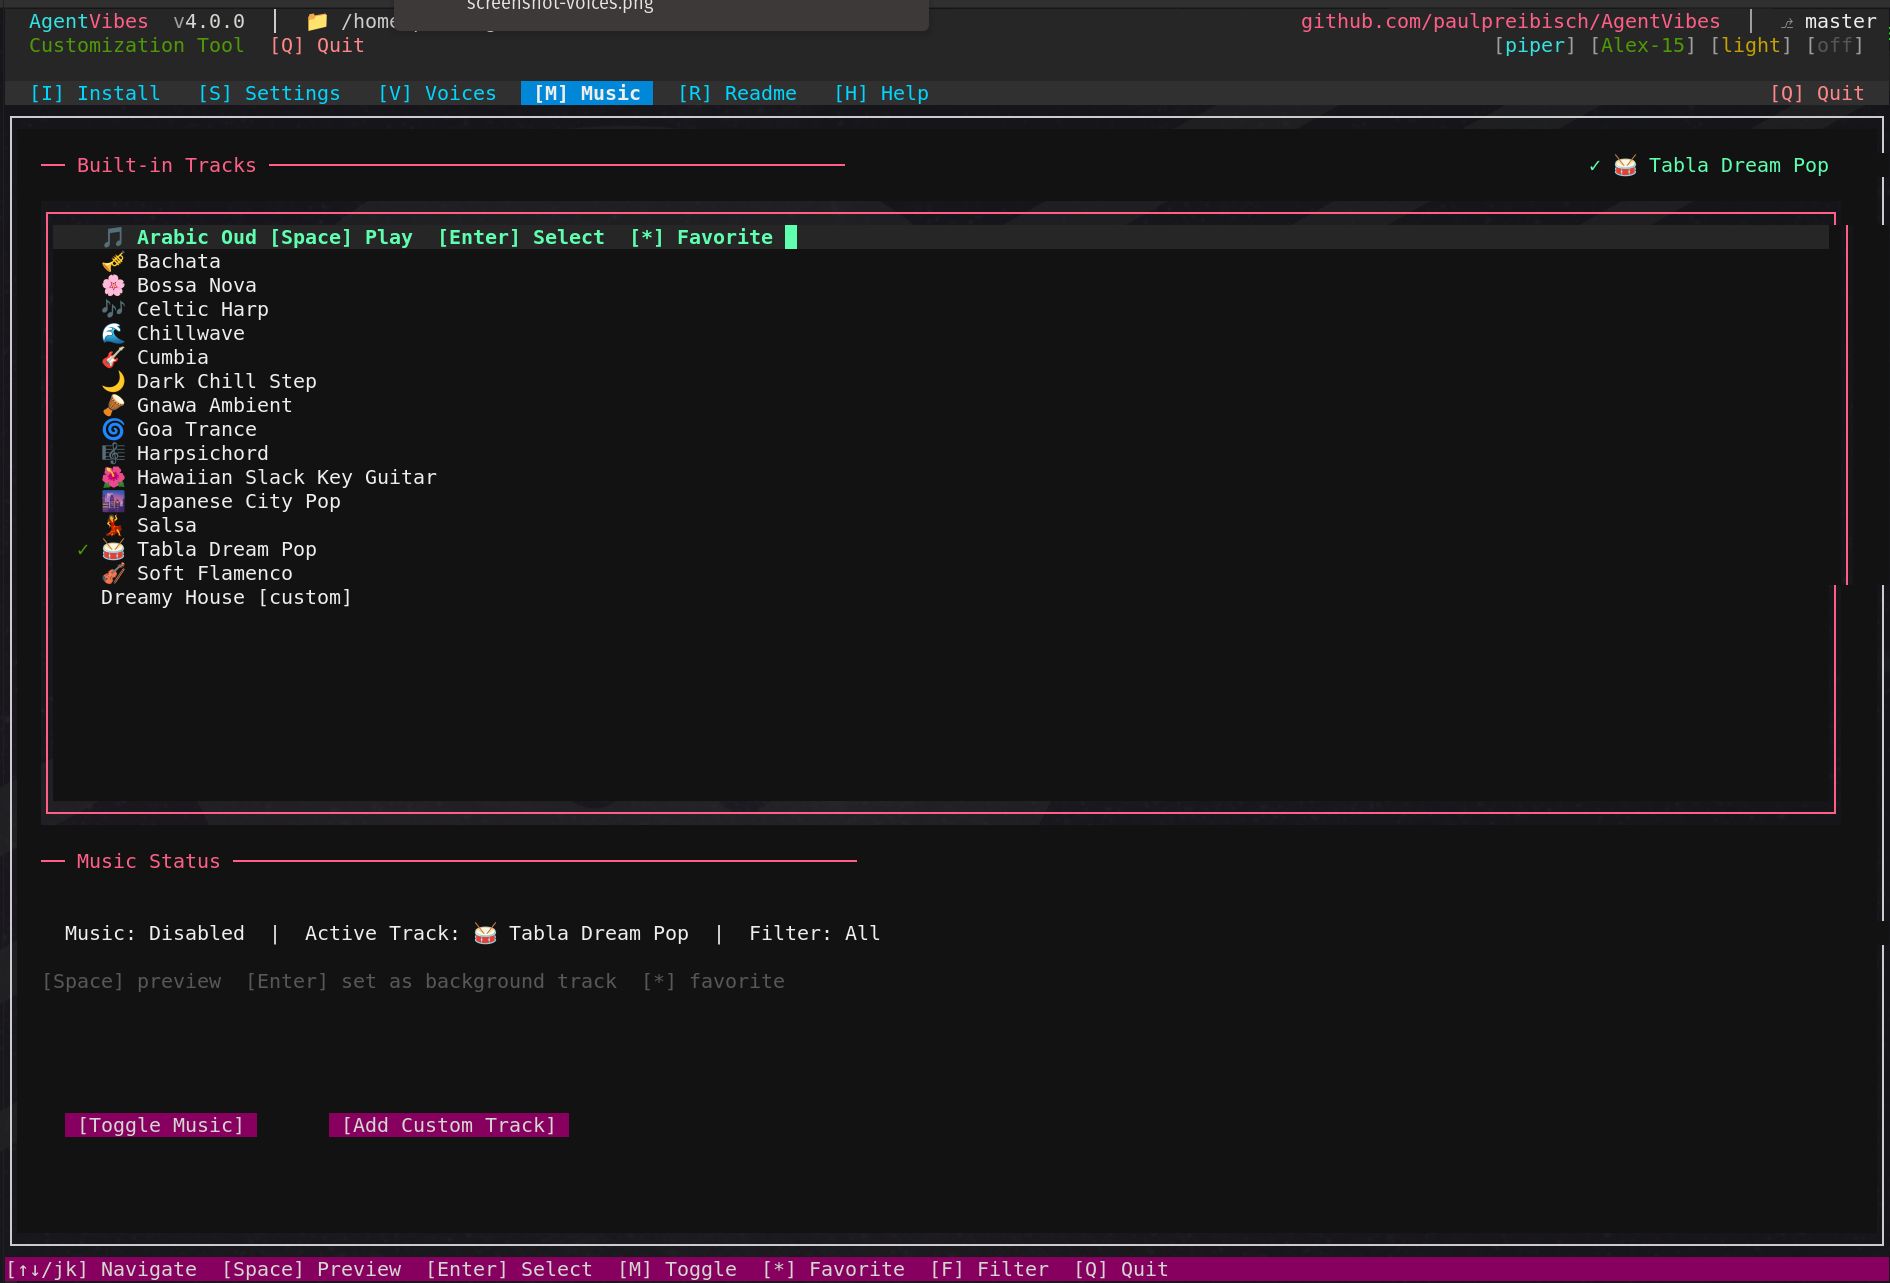
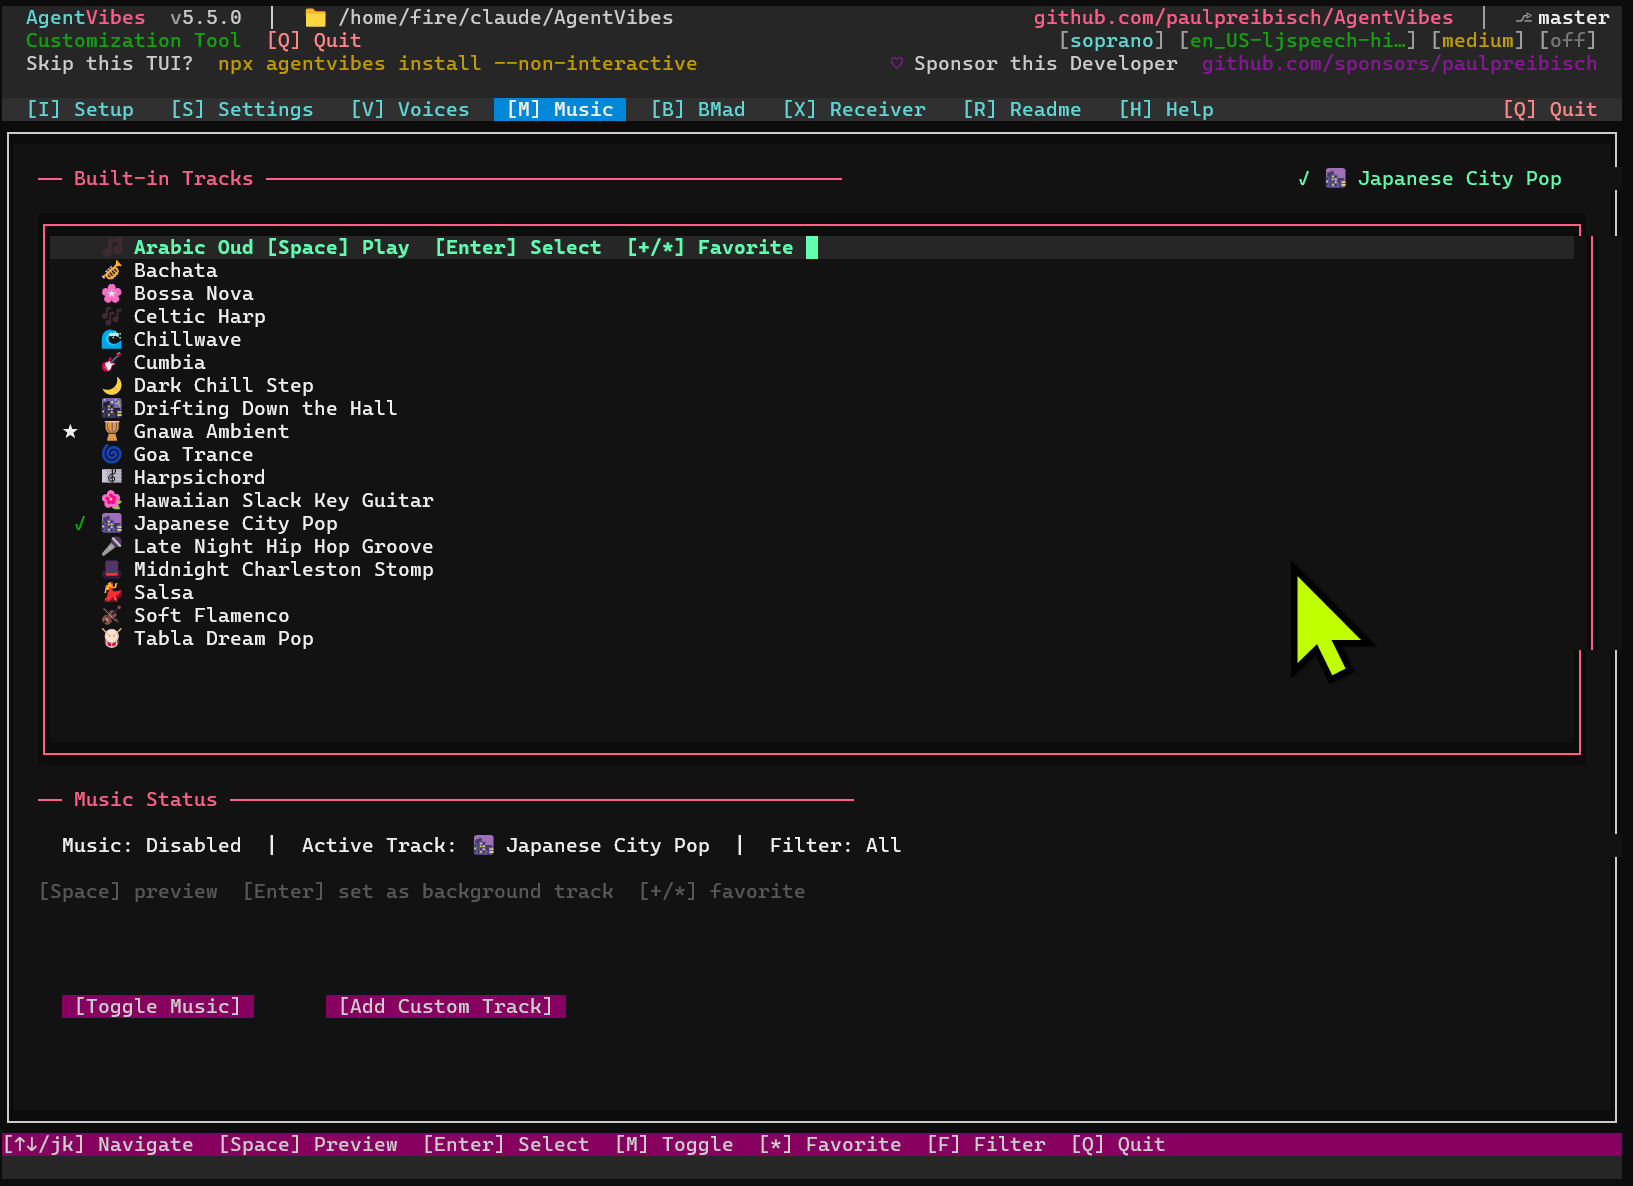
docs: add TUI screenshots, retire voice-browser command, bump v5.6.0
- Add screenshot-bmad, screenshot-configure, screenshot-music,
  screenshot-setup, screenshot-voice-browser to README
- Remove all npx agentvibes-voice-browser references (tool retired)
- Rename Voice Browser section to reflect TUI-native access
- Convert all image paths to absolute GitHub raw URLs (npm-compatible)
- Fix .gitignore to track named screenshots, ignore numbered ones
- Remove stale voice-browser-screenshot.png

diff --git a/README.md b/README.md
@@ -11,7 +11,7 @@
 [![Publish](https://github.com/paulpreibisch/AgentVibes/actions/workflows/publish.yml/badge.svg)](https://github.com/paulpreibisch/AgentVibes/actions/workflows/publish.yml)
 [![License](https://img.shields.io/badge/License-Apache_2.0-blue.svg)](https://opensource.org/licenses/Apache-2.0)
 
-**Author**: Paul Preibisch ([@997Fire](https://x.com/997Fire)) | **Version**: v5.5
+**Author**: Paul Preibisch ([@997Fire](https://x.com/997Fire)) | **Version**: v5.6
 
 ---
 
@@ -46,7 +46,7 @@ Give **each LLM its own voice, pretext, and music** — Claude Code, Copilot, an
 
 - Add `llm:<name>|...|voice|pretext|engine` rows to `audio-effects.cfg`
 - MCP server auto-detects which LLM is calling and passes `--llm <key>`
-- Configure via **Setup → Default → Configure** in the TUI
+- Configure via **Setup tab → Configure** in the TUI
 
 Also fixed: Windows installer crash (`spinner.info is not a function`) on **reinstall** with an older global AgentVibes install.
 
@@ -54,33 +54,19 @@ Also fixed: Windows installer crash (`spinner.info is not a function`) on **rein
 
 ## v5.4 — TUI Installer, Spinner Fix & Dependency Cleanup
 
-### 🎤 Agent Vibes v1.0 Voice Browser
+### 🎤 Voice Browser — Browse, Sample & Install 914 Voices
 
-**🎤 Browse, Sample & Install 914 Voices in Real-Time**
+**Built right into the TUI — accessible via Setup → Configure → Voice**
 
-```bash
-npx agentvibes-voice-browser
-```
-
-The new **AgentVibes Voice Browser** is an interactive console application that lets you:
-
-- 🎧 **Hear Before You Choose** - Real-time audio sampling with one keypress
-- ⭐ **Mark Your Favorites** - Build your personal voice collection
-- 🔍 **Smart Search** - Filter by name, personality, accent, or gender
-- 📦 **One-Click Install** - Press 'I' to instantly switch to any voice
-- 🎨 **Beautiful Interface** - Stunning terminal UI powered by blessed.js
+- 🎧 **Hear Before You Choose** - Press Space to preview any voice instantly
+- ⭐ **Mark Your Favorites** - Thumbs up/down with `+` / `-`
+- 🔍 **Alpha Jump** - Press any letter to jump to names starting with it
+- 📦 **One-Click Select** - Press Enter to set as your voice
+- 🎨 **Beautiful Interface** - Stunning terminal UI built into AgentVibes
 
 **914 Total Voices:**
 - 904 High-Quality Piper TTS Speakers (libritts-high model)
 - 10 Hand-Curated Personality Voices
-
-**Perfect for:**
-- Finding your ideal AI voice
-- Exploring voice characteristics
-- Quick voice switching
-- Building favorite collections
-
-Launch now: `npx agentvibes-voice-browser`
 
 ---
 
@@ -132,8 +118,10 @@ Configure now: `npx agentvibes config intro-text`
 **Upload your own background music with battle-tested security!**
 
 ```bash
-npx agentvibes config music
+npx agentvibes   # press M for Music tab
 ```
+
+![AgentVibes Music Tab](https://raw.githubusercontent.com/paulpreibisch/AgentVibes/master/docs/installation-screenshots/screenshot-music.png)
 
 Replace the default background tracks with your own audio files for complete sonic branding.
 
@@ -252,10 +240,10 @@ All 50+ Piper voices AgentVibes provides are sourced from Hugging Face's open-so
 - [📋 Prerequisites](#-prerequisites) - What you actually need (Node.js + optional tools)
 - [✨ What is AgentVibes?](#-what-is-agentvibes) - Overview & key features
 - [🌟 NEW FEATURE HIGHLIGHTS](#-new-feature-highlights) - **START HERE!**
-  - [🎤 Voice Browser v1.0](#-agent-vibes-v10-voice-browser) - Browse & sample 914 voices
+  - [🎤 Voices Tab](#-voices-tab) - Browse & sample 914 voices in the TUI
   - [💬 Intro Text](#-intro-text-pretext---your-personal-ai-branding) - Custom TTS prefixes
   - [🎵 Custom Background Music](#-custom-background-music---complete-audio-control) - Upload your own tracks
-- [📰 Latest Release](#-latest-release) - v3.6.0 "Voice Explorer" with Voice Browser, Friendly Names, Custom Music
+- [📰 Latest Release](#-latest-release) - v5.5.0 with Per-LLM Audio Routing, Windows Installer Resilience
 - [🪟 Windows Setup Guide for Claude Desktop](mcp-server/WINDOWS_SETUP.md) - Complete Windows installation with WSL & Python
 
 ### AgentVibes MCP (Natural Language Control)
@@ -265,7 +253,7 @@ All 50+ Piper voices AgentVibes provides are sourced from Hugging Face's open-so
   - [For Claude Code](docs/mcp-setup.md#for-claude-code) - Project-specific setup
 
 ### Core Features
-- [🎤 AgentVibes Voice Browser](#-agentvibes-voice-browser) - **Browse and sample 914 voices interactively**
+- [🎤 Voices Tab](#-voices-tab) - **Browse and sample 914 voices in the TUI**
 - [🎤 Commands Reference](#-commands-reference) - All available commands
 - [🎙 Verbosity Control](#%EF%B8%8F-verbosity-control) - Control how much Claude speaks (low/medium/high)
 - [🎭 Personalities vs Sentiments](#-personalities-vs-sentiments) - Two systems explained
@@ -303,20 +291,17 @@ All 50+ Piper voices AgentVibes provides are sourced from Hugging Face's open-so
 
 **[v3.6.0 - "Voice Explorer" Release](https://github.com/paulpreibisch/AgentVibes/releases/tag/v3.6.0)** 🎉
 
-### 🎤 AgentVibes Voice Browser
+### 🎤 Voices Tab — Browse & Sample 914 Voices
 
-**Browse and sample 914 voices in real-time!**
+**Built into the TUI — launch with `npx agentvibes` then press V**
 
-```bash
-npx agentvibes-voice-browser
-```
+![AgentVibes Voices Tab](https://raw.githubusercontent.com/paulpreibisch/AgentVibes/master/docs/installation-screenshots/screenshot-voices.png)
 
-Interactive console browser with:
-- 🎧 Real-time voice sampling - hear before you choose
+- 🎧 Real-time voice sampling - press Space to hear before you choose
 - ⭐ Favorite system - mark your top voices
 - 🔍 Search & filter - find voices by personality, accent, gender
-- 📦 One-click install - install directly from browser
-- 🎨 Beautiful UI - stunning console interface
+- 📦 One-click select - press Enter to install directly
+- 🎨 Beautiful UI - built into the AgentVibes TUI
 
 **914 Total Voices:**
 - 904 Piper speaker variations (libritts-high)
@@ -379,8 +364,8 @@ npx agentvibes config music
 # Install AgentVibes
 npx agentvibes install
 
-# Launch Voice Browser
-npx agentvibes-voice-browser
+# Browse voices in the TUI
+npx agentvibes  # press V for Voices tab
 ```
 
 **🐞 Bug Fixes in v3.6.0:**
@@ -432,6 +417,12 @@ Just say "Switch to Aria voice" or "Speak in Spanish" instead of typing commands
 npx agentvibes install
 ```
 
+![AgentVibes Setup Tab — LLM Providers](https://raw.githubusercontent.com/paulpreibisch/AgentVibes/master/docs/installation-screenshots/screenshot-setup.png)
+
+Click **Configure** on any LLM to set its voice, pretext, reverb, and music:
+
+![AgentVibes Configure Claude Code Audio](https://raw.githubusercontent.com/paulpreibisch/AgentVibes/master/docs/installation-screenshots/screenshot-configure.png)
+
 ### 2⃣ Choose Provider (Auto-Detected)
 - **macOS**: Native `say` provider (100+ voices) ✨
 - **Linux/WSL**: Piper TTS (50+ free voices) 🎙
@@ -457,39 +448,37 @@ macOS ships with bash 3.2 (from 2007). After this, everything works perfectly!
 
 ---
 
-## 🎤 AgentVibes Voice Browser
+## 🎤 Voice Browser
 
-**The easiest way to find your perfect voice!**
-
-### Launch the Browser
+**914 voices — browse, preview, and select right inside the TUI.**
 
 ```bash
-npx agentvibes-voice-browser
+npx agentvibes   # Setup tab → Configure → Voice  (or press V for global voice)
 ```
+
+![AgentVibes Voice Browser](https://raw.githubusercontent.com/paulpreibisch/AgentVibes/master/docs/installation-screenshots/screenshot-voice-browser.png)
 
 ### Features
 
 - **914 Voices** - Browse 904 Piper speakers + 10 curated voices
-- **Real-Time Sampling** - Press ENTER to hear any voice instantly
-- **Favorite System** - Mark favorites for quick access
-- **Smart Search** - Filter by name, personality, accent, or gender
-- **One-Click Install** - Press 'I' to install and switch to a voice
-- **Beautiful UI** - Stunning console interface with blessed.js
+- **Real-Time Sampling** - Press Space to hear any voice instantly
+- **Favorite System** - Thumbs up `+` / thumbs down `-` for quick filtering
+- **Alpha Jump** - Press any letter key to jump to that part of the list
+- **One-Click Select** - Press Enter to install and switch to a voice
+- **Beautiful UI** - Stunning console interface built into AgentVibes
 
 ### Keyboard Shortcuts
 
 | Key | Action |
 |-----|--------|
-| **ENTER** | Play voice sample |
-| **I** | Install/Select voice for AgentVibes |
-| **F** | Toggle favorite |
-| **/** | Search voices |
-| **ESC** | Clear search / Back |
+| **Space** | Preview voice sample |
+| **Enter** | Select/Install voice |
+| **+** | Thumbs up (favorite) |
+| **-** | Thumbs down |
+| **PgUp / PgDn** | Page through list |
 | **↑/↓** | Navigate list |
-| **G** | Jump to top |
-| **Shift+G** | Jump to bottom |
-| **H** | Show help |
-| **Q** | Quit |
+| **a-z** | Jump to names starting with letter |
+| **Esc** | Cancel / close |
 
 ### Voice Categories
 
@@ -505,13 +494,13 @@ npx agentvibes-voice-browser
 
 ### Finding Your Perfect Voice
 
-1. **Launch browser:** `npx agentvibes-voice-browser`
-2. **Search by trait:** Press `/` and type "friendly" or "professional"
-3. **Sample voices:** Navigate with arrows, press ENTER to hear
-4. **Mark favorites:** Press 'F' on voices you like
-5. **Install:** Press 'I' to set as your AgentVibes voice
+1. **Open voice browser:** Setup tab → Configure → navigate to Voice → Enter
+2. **Jump alphabetically:** Press a letter key to jump to that name
+3. **Sample voices:** Navigate with arrows, press Space to hear
+4. **Mark favorites:** Press `+` on voices you like
+5. **Select:** Press Enter to set as your voice
 
-**Pro Tip:** Use the search to find voices matching your project's mood!
+**Pro Tip:** Use PgUp/PgDn to page quickly through 900+ voices!
 
 [↑ Back to top](#-table-of-contents)
 
@@ -860,17 +849,12 @@ AgentVibes provides **50+ slash commands** and **natural language MCP equivalent
 
 **[→ View Complete Command Reference](docs/commands.md)** - All voice, system, personality, sentiment, language, and BMAD commands with MCP equivalents
 
-### Voice Browser Commands
+### Voices Tab Commands
 
 ```bash
-# Launch voice browser
-npx agentvibes-voice-browser
-
-# Or use global command (if installed globally)
-agentvibes-voice-browser
+# Launch the TUI and open Voices tab
+npx agentvibes  # then press V
 ```
-
-**MCP Equivalent:** Currently CLI-only (no MCP command)
 
 ### Intro Text Commands
 
@@ -1010,7 +994,7 @@ Every task acknowledgment plays **twice** - first in English, then in your targe
 
 ## 🗣 Voice Library
 
-**NEW in v3.6.0:** Use the **[AgentVibes Voice Browser](#-agentvibes-voice-browser)** to browse, sample, and install from 914 voices! Launch with `npx agentvibes-voice-browser`.
+**Browse voices in the TUI:** Run `npx agentvibes` and press **V** to open the **[Voices Tab](#-voices-tab)** — browse, sample, and install from 914 voices without leaving your terminal.
 
 ### Friendly Voice Names
 
@@ -1052,13 +1036,11 @@ The BMAD plugin detects when you activate a BMAD agent (e.g., `/BMad:agents:pm`)
 
 **Version Support**: AgentVibes supports both BMAD v4 and v6-alpha installations. Version detection is automatic - just install BMAD and AgentVibes will detect and configure itself correctly!
 
-### 🎭 Party Mode — Screenshots
+### 🎭 BMad Tab — Assign a Voice to Every Agent
 
-Open the **BMad** tab in the AgentVibes TUI (`npx agentvibes`) to configure which voice each agent uses:
+Open the **BMad** tab in the AgentVibes TUI (`npx agentvibes` → press **B**) to configure which voice, reverb, and pretext each BMAD agent uses:
 
-![BMAD Party Mode Tab](docs/installation-screenshots/screenshot-bmad-party-mode.png)
-
-> 📸 **Don't have a screenshot yet?** Run `npx agentvibes`, switch to the **BMad** tab, and take a screenshot — then save it as `docs/installation-screenshots/screenshot-bmad-party-mode.png`.
+![AgentVibes BMad Tab](https://raw.githubusercontent.com/paulpreibisch/AgentVibes/master/docs/installation-screenshots/screenshot-bmad.png)
 
 ### 🔊 TTS Injection: How It Works
 
@@ -1882,10 +1864,10 @@ Both do the exact same thing - MCP is more convenient, slash commands are more t
 - **Optional**: sox (audio effects), ffmpeg (background music, padding)
 - All TTS generation works without optional dependencies - they just enhance the experience
 
-### Voice Browser & New Features
+### Voices Tab & New Features
 
-**Q: How do I use the Voice Browser?**
-**A:** Simply run `npx agentvibes-voice-browser` and you'll see an interactive console with 914 voices. Use arrow keys to navigate, ENTER to sample voices, 'I' to install, 'F' to favorite, and '/' to search.
+**Q: How do I browse and select voices?**
+**A:** Run `npx agentvibes` and press **V** to open the Voices tab. Use arrow keys to navigate, Space to preview voices, Enter to select/install, F to favorite, and / to search.
 
 **Q: What are friendly voice names?**
 **A:** Instead of technical IDs like `en_US-ryan-high`, you can now use simple names like "Ryan" when switching voices. All 904+ voices have friendly names matched to their characteristics.
@@ -1903,7 +1885,7 @@ Both do the exact same thing - MCP is more convenient, slash commands are more t
 **A:** No! You can type "ryan", "Ryan", or "RYAN" - they all work. The voice resolution is case-insensitive.
 
 **Q: Can I favorite voices without installing them?**
-**A:** Yes! In the Voice Browser, press 'F' to mark any voice as a favorite. Favorites are saved and you can filter to show only favorites later.
+**A:** Yes! In the Voices tab, press 'F' to mark any voice as a favorite. Favorites are saved and you can filter to show only favorites later.
 
 **Q: Does custom music work with all TTS providers?**
 **A:** Yes! Custom background music works with Piper TTS, Soprano, macOS Say, and Windows SAPI.

diff --git a/RELEASE_NOTES.md b/RELEASE_NOTES.md
@@ -1,5 +1,28 @@
 # AgentVibes Release Notes
 
+## 📸 v5.6.0 — TUI Screenshots & Documentation Cleanup
+
+**Released:** 2026-04-28
+
+### 📸 TUI Screenshots Added
+
+Added real screenshots of every major TUI tab to the README:
+
+- **Setup tab** — LLM Providers screen (Claude Code, Copilot, Codex, Default)
+- **Configure dialog** — Per-LLM audio config (voice, pretext, reverb, music)
+- **Voice Browser** — Select Voice dialog with alpha-jump, thumbs up/down, 914 voices
+- **Music tab** — Built-in tracks list with preview and toggle
+- **BMad tab** — Agent voice assignment (voice, reverb, music, pretext per agent)
+
+### 🧹 Documentation Cleanup
+
+- Removed all `npx agentvibes-voice-browser` references (tool retired, replaced by TUI)
+- Renamed "Voice Browser" section to reflect TUI-native access via Setup → Configure → Voice
+- All image paths now use absolute GitHub raw URLs (renders correctly on npmjs.com)
+- Fixed BMad section placeholder screenshot replaced with real screenshot
+
+---
+
 ## 🎵 v5.5.0 — Per-LLM Audio Routing & Windows Installer Resilience
 
 **Released:** 2026-04-27
